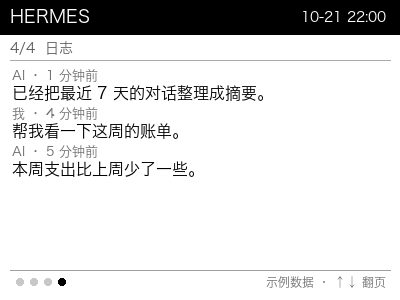
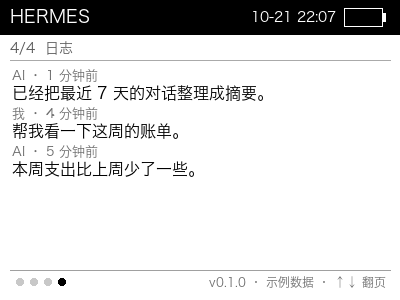
polish: 电量改为图标内嵌数字；低电量加感叹号；更新示例截图

Changed region(s): [[0.63, 0.0, 0.96, 0.09], [0.51, 0.93, 0.63, 0.96]]

diff --git a/agent_status.py b/agent_status.py
@@ -274,23 +274,24 @@ def render(out, page=0):
 
     # 右上角：电量图标（实心比例 + 百分比），从右往左排
     pct, charging = battery()
-    icon_w, icon_h, iy = 20, 10, 12
+    icon_w, icon_h, iy = 42, 18, 8
     ix = W - 14 - icon_w
     d.rectangle([ix, iy, ix + icon_w - 4, iy + icon_h], outline=255, width=1)
-    d.rectangle([ix + icon_w - 3, iy + 3, ix + icon_w - 1, iy + icon_h - 3], fill=255)  # 电极
+    d.rectangle([ix + icon_w - 3, iy + 5, ix + icon_w - 1, iy + icon_h - 5], fill=255)
     if pct is not None:
-        fw = int((icon_w - 5) * max(0, min(pct, 100)) / 100)
+        fw = int((icon_w - 6) * max(0, min(pct, 100)) / 100)
         if fw > 0:
-            d.rectangle([ix + 2, iy + 2, ix + 1 + fw, iy + icon_h - 2], fill=255)
+            d.rectangle([ix + 2, iy + 3, ix + 1 + fw, iy + icon_h - 3], fill=255)
+        num = str(pct)
+        f = font(11)
+        tw = d.textlength(num, font=f)
+        d.text((ix + (icon_w - 4 - tw) / 2, iy + 3), num, font=f,
+               fill=(0 if pct >= 45 else 255))
 
-    bx = ix - 6
-    if pct is not None:
-        low = pct <= 20 and not charging
-        ptxt = f"低 {pct}%" if low else (f"{pct}%" + ("+" if charging else ""))
-        pf = font(12) if low else font(12, bold=False)
-        d.text((bx - d.textlength(ptxt, font=pf), 9), ptxt, font=pf, fill=255)
-        bx -= d.textlength(ptxt, font=pf) + 8
-
+    bx = ix - 8
+    if pct is not None and pct <= 20 and not charging:
+        d.text((bx - d.textlength("!", font=font(14)), 8), "!", font=font(14), fill=255)
+        bx -= 12
     d.text((bx - d.textlength(now, font=font(14)), 9), now, font=font(14), fill=255)
     # 顶栏不再放灯：时间右对齐到底
 

diff --git a/README.md b/README.md
@@ -33,7 +33,7 @@
 - **保持画面**：推完不关闭连接（官方 `show` 示例会 `close()`，设备立刻回主页）
 - **自动重连**：设备被占用 / 断线 / 租约未释放时每 2 秒重试
 - **护屏节流**：翻页立即刷新；数据类变化 5 分钟最多一次；内容不变绝不重绘
-- **设备电量**：连接时与每 5 分钟读取一次，顶栏显示电量图标与百分比；低于 20% 且未充电时变为醒目的「低 12%」
+- **设备电量**：连接时与每 5 分钟读取一次，顶栏电池图标内直接显示百分比；≤20% 且未充电时图标旁出现 `!`
 - **版本标记**：页脚显示 `v0.1.0`，方便反馈时对齐版本
 - **零配置可试**：读不到本机助手状态时自动进入示例数据模式（页脚标注"示例数据"）
 - **十六灰阶**：中文用 Hiragino Sans GB 渲染，400×300 满屏
